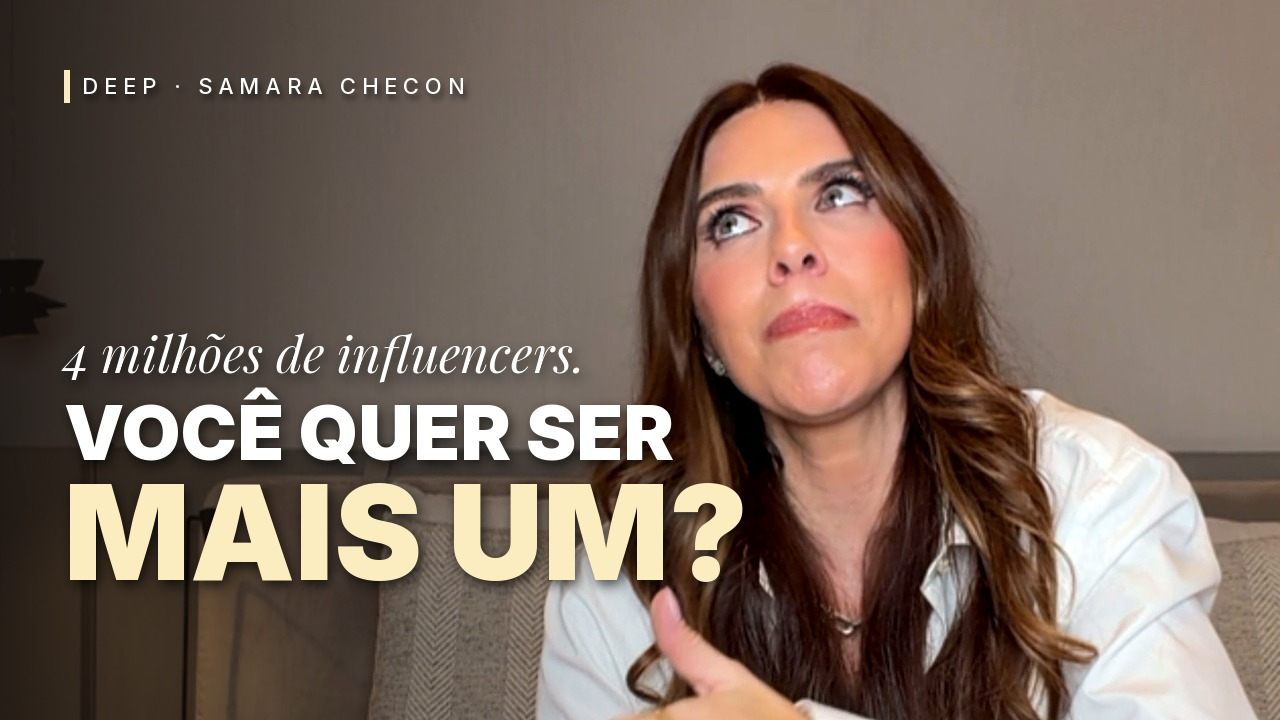
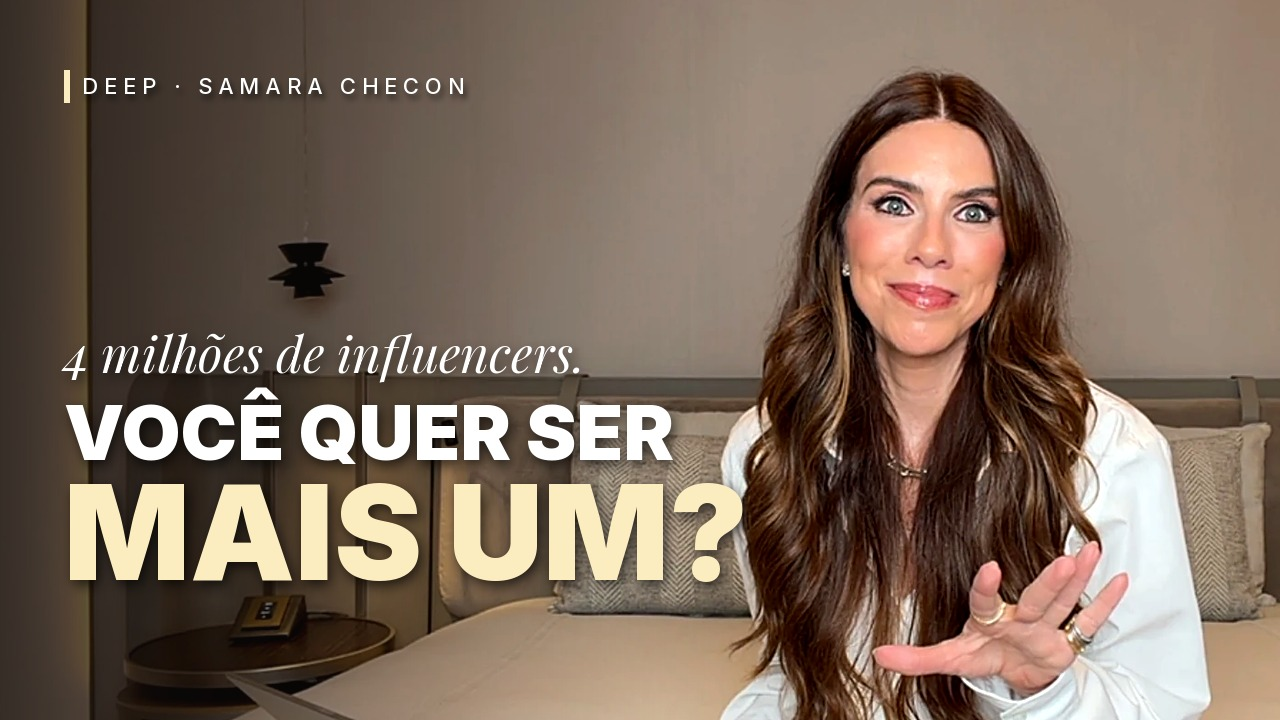
Troca o quadro da thumb do DEEP pelo escolhido pela editora
Claude-Session: https://claude.ai/code/session_01K7mYsXZ7sWqL5jXyzTRALP

diff --git a/projetos/deep-influencer/edicao/thumb.py b/projetos/deep-influencer/edicao/thumb.py
@@ -4,8 +4,8 @@ from PIL import Image, ImageDraw, ImageEnhance, ImageFilter, ImageFont
 S = sys.argv[1]
 W, H = 1280, 720
 AMARELO = (252, 237, 192)
-img = Image.open(f"{S}/base.png").convert("RGB")
-x0, y0, cw = 250, 150, 2380
+img = Image.open(sys.argv[2]).convert("RGB")
+x0, y0, cw = (int(v) for v in sys.argv[3].split(","))
 img = img.crop((x0, y0, x0 + cw, y0 + int(cw * 9 / 16))).resize((W, H), Image.LANCZOS)
 img = ImageEnhance.Contrast(img).enhance(1.10)
 img = ImageEnhance.Color(img).enhance(1.08)
